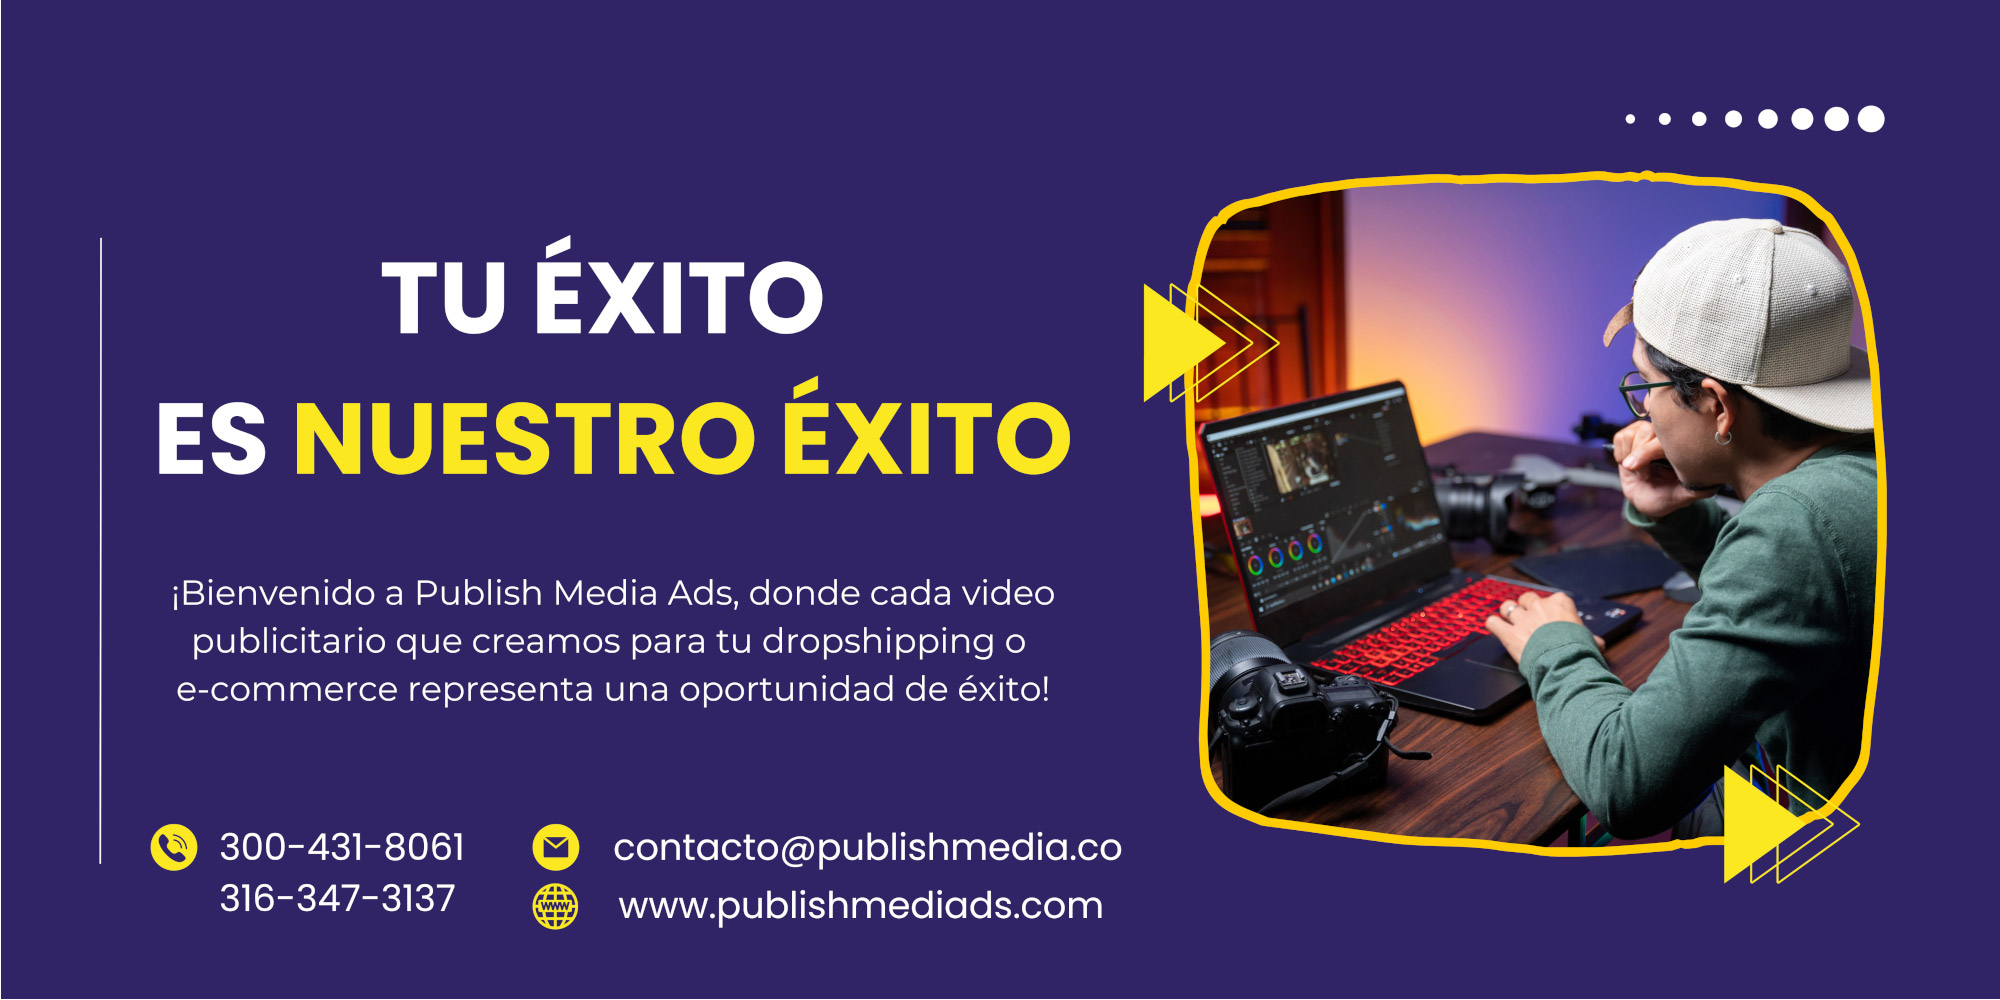
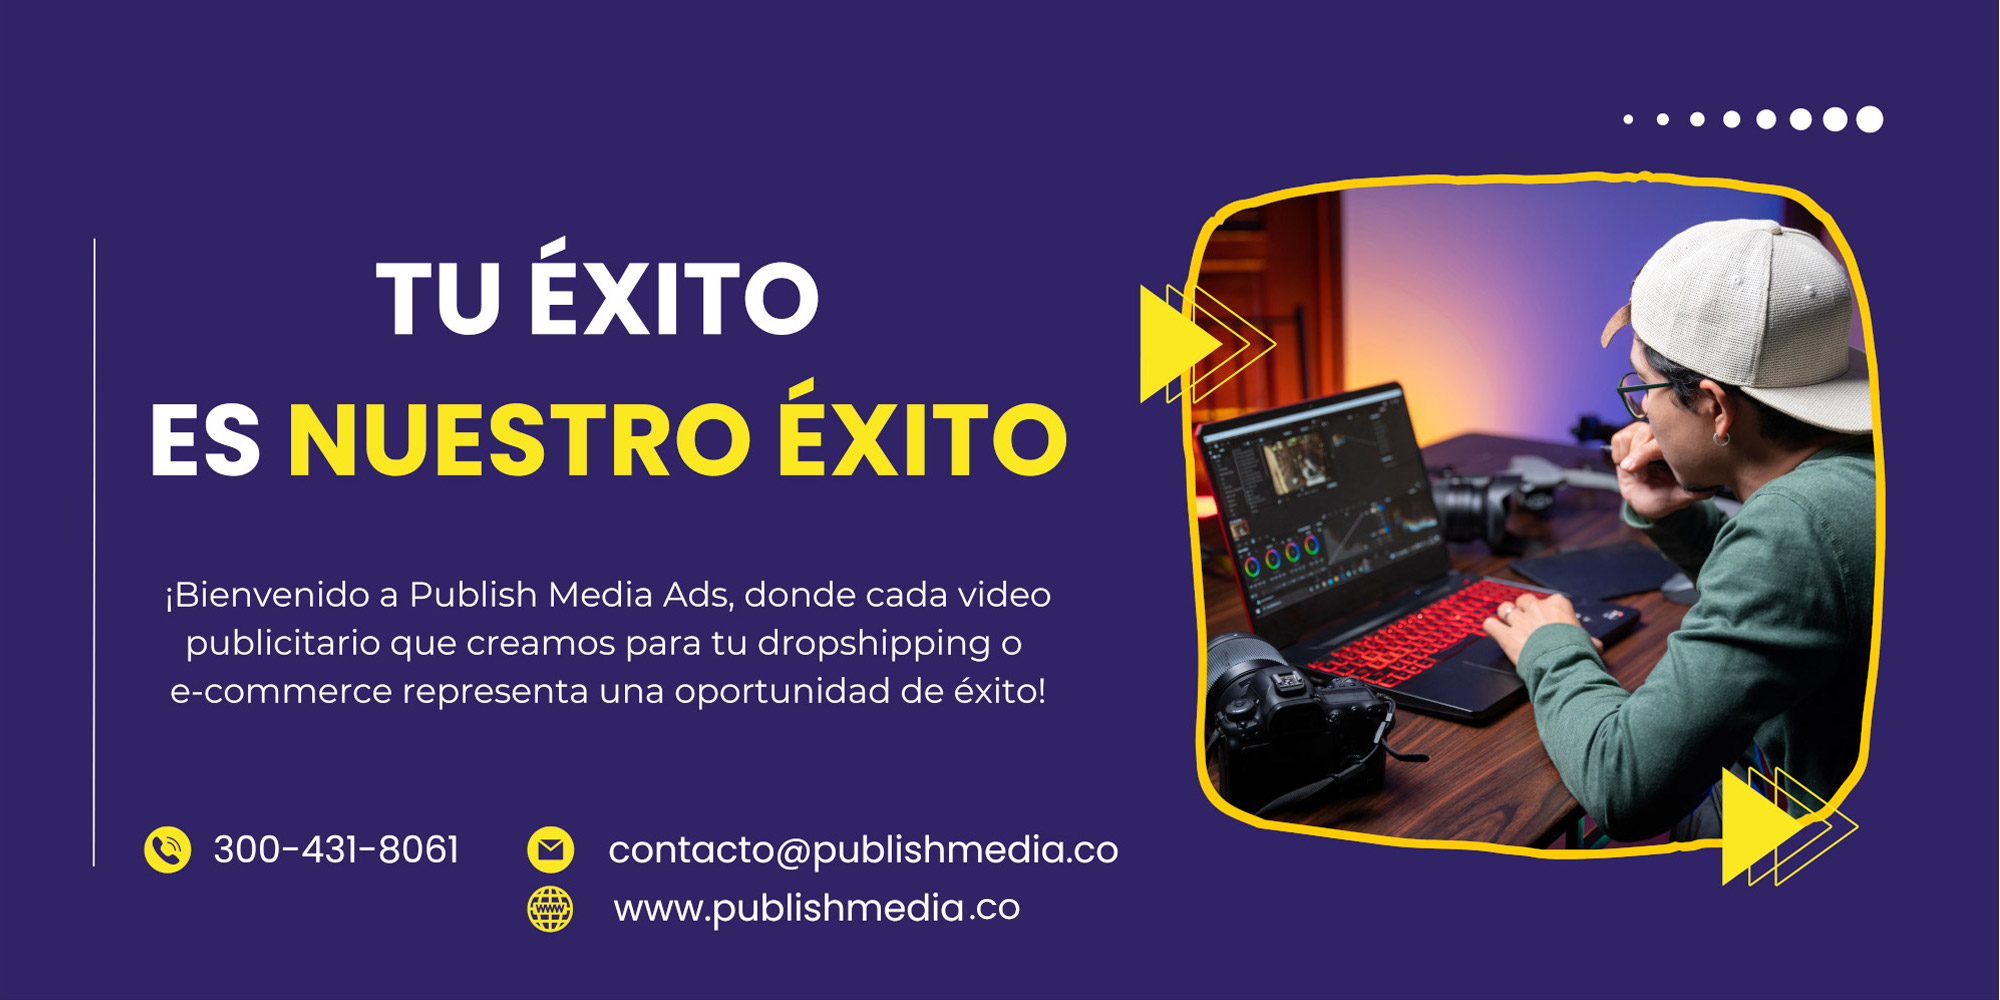
portadas

diff --git a/index.html b/index.html
@@ -7,23 +7,23 @@
 <meta name="author" content="">
 <link rel="shortcut icon" href="style/images/favicon.png">
 <!-- Primary Meta Tags -->
-<title>Publish Media ADS</title>
-<meta name="title" content="Publish Media ADS" />
+<title>Publish Media </title>
+<meta name="title" content="Publish Media " />
 <meta name="description" content="¡Tu éxito es nuestro éxito!" />
 
 <!-- Open Graph / Facebook -->
 <meta property="og:type" content="website" />
-<meta property="og:url" content="https://publishmediads.com/" />
-<meta property="og:title" content="Publish Media ADS" />
+<meta property="og:url" content="https://publishmedia.co/" />
+<meta property="og:title" content="Publish Media " />
 <meta property="og:description" content="¡Tu éxito es nuestro éxito!" />
-<meta property="og:image" content="https://publishmediads.com/meta.jpg" />
+<meta property="og:image" content="https://publishmedia.co/meta.jpg" />
 
 <!-- Twitter -->
 <meta property="twitter:card" content="summary_large_image" />
-<meta property="twitter:url" content="https://publishmediads.com/" />
-<meta property="twitter:title" content="Publish Media ADS" />
+<meta property="twitter:url" content="https://publishmedia.co/" />
+<meta property="twitter:title" content="Publish Media " />
 <meta property="twitter:description" content="¡Tu éxito es nuestro éxito!" />
-<meta property="twitter:image" content="https://publishmediads.com/meta.jpg" />
+<meta property="twitter:image" content="https://publishmedia.co/meta.jpg" />
 
 <!-- Meta Tags Generated with https://metatags.io -->
 
@@ -125,16 +125,10 @@
               </figure>
             </div>
             <!-- /.swiper-slide -->
-            <div class="swiper-slide">
+            <!-- <div class="swiper-slide">
               <figure class="overlay overlay5 caption-wrapper caption-dark"><span><img src="style/images/art/portada3.jpg" alt="" /></span>
-                <!-- <figcaption>
-                  <div class="caption-bg bg-opacity">
-                    <h3><a href="#">Vegan</a></h3> 
-                   
-                  </div>
-                </figcaption> -->
               </figure>
-            </div>
+            </div> -->
             <!-- /.swiper-slide --> 
           </div>
           <!-- /.swiper-wrapper --> 
